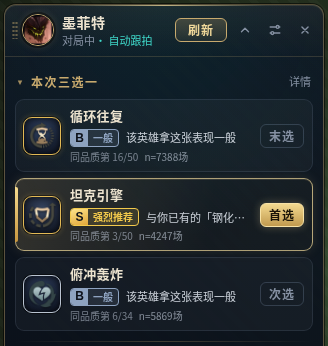
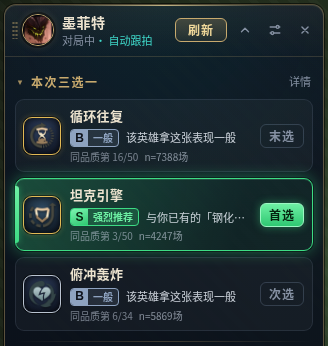
style(overlay): vivid green for recommended emphasis (S tier, first choice, next item), gold kept for frame/rarity accents

Changed region(s): [[0.0305, 0.4913, 0.9451, 0.7514], [0.7927, 0.5202, 0.9756, 0.7225], [0.2134, 0.578, 0.4268, 0.6647]]

diff --git a/src/renderer/components/ManualOverlay.vue b/src/renderer/components/ManualOverlay.vue
@@ -1594,7 +1594,10 @@ onBeforeUnmount(() => {
   --mo-text: #cfd6e0;
   --mo-muted: #8590a2;
   --mo-blue: #3fd6c8;
-  --mo-up: #62d896;
+  --mo-up: #4ade80;
+  --mo-go: #3ddc84;
+  --mo-go-bright: #6ef0a4;
+  --mo-go-glow: rgba(61, 220, 132, 0.45);
   --mo-down: #f07a72;
   --mo-radius: 12px;
   --mo-hex: #0ac8b9;
@@ -1672,16 +1675,16 @@ onBeforeUnmount(() => {
   height: 32px;
   flex: none;
   border-radius: 7px;
-  border: 1px solid var(--mo-gold-bright);
-  box-shadow: 0 0 0 1px rgba(0, 0, 0, 0.6), 0 0 8px rgba(240, 216, 154, 0.35);
+  border: 1.5px solid var(--mo-go);
+  box-shadow: 0 0 0 1px rgba(0, 0, 0, 0.6), 0 0 9px var(--mo-go-glow);
   overflow: hidden;
   background: #0b1220;
 }
 .mo-bar-next img { width: 100%; height: 100%; display: block; }
-.mo-focus-buy { margin: 5px 0 3px; padding: 3px 7px; border-radius: 5px; border-left: 2px solid #f0c85a; background: rgba(240, 200, 90, 0.1); color: #f3cf6c; font-size: 12px; font-weight: 600; }
+.mo-focus-buy { margin: 5px 0 3px; padding: 3px 7px; border-radius: 5px; border-left: 3px solid var(--mo-go); background: rgba(61, 220, 132, 0.12); color: var(--mo-go-bright); font-size: 12px; font-weight: 600; }
 .mo-bar-empty { display: flex; height: 100%; align-items: center; justify-content: center; color: var(--mo-muted); }
 .mo-bar-text { display: flex; flex-direction: column; min-width: 0; max-width: 104px; }
-.mo-bar-label { font-size: 10px; line-height: 1.2; color: var(--mo-gold); letter-spacing: 1px; }
+.mo-bar-label { font-size: 10px; line-height: 1.2; color: var(--mo-go); font-weight: 700; letter-spacing: 1px; }
 .mo-bar-name { color: var(--mo-ivory); font-size: 13px; font-weight: 700; text-shadow: 0 1px 2px rgba(0, 0, 0, 0.6); white-space: nowrap; overflow: hidden; text-overflow: ellipsis; }
 .mo-bar-dot {
   width: 8px; height: 8px; flex: none; border-radius: 50%;
@@ -1855,13 +1858,13 @@ onBeforeUnmount(() => {
 }
 .mo-card:hover { border-color: var(--mo-gold-dim); background: var(--mo-surface-hover); }
 .mo-card-best {
-  border-color: rgba(240, 216, 154, 0.7);
-  background: linear-gradient(100deg, rgba(200, 170, 110, 0.2), rgba(200, 170, 110, 0.04) 65%);
-  box-shadow: 0 0 12px rgba(200, 170, 110, 0.16), inset 0 1px 0 rgba(240, 216, 154, 0.14);
+  border-color: var(--mo-go);
+  background: linear-gradient(100deg, rgba(61, 220, 132, 0.28), rgba(61, 220, 132, 0.07) 75%);
+  box-shadow: 0 0 0 1px rgba(0, 0, 0, 0.45), 0 0 16px var(--mo-go-glow), inset 0 1px 0 rgba(110, 240, 164, 0.18);
 }
 .mo-card-best::before {
-  content: ""; position: absolute; left: -1px; top: 8px; bottom: 8px; width: 3px; border-radius: 0 2px 2px 0;
-  background: linear-gradient(180deg, #f7dc8f, #c8973f);
+  content: ""; position: absolute; left: -1px; top: 7px; bottom: 7px; width: 4px; border-radius: 0 3px 3px 0;
+  background: linear-gradient(180deg, var(--mo-go-bright), var(--mo-go)); box-shadow: 0 0 6px var(--mo-go-glow);
 }
 .mo-card-tie { border-color: rgba(63, 214, 200, 0.5); background: linear-gradient(100deg, rgba(63, 214, 200, 0.1), transparent 65%); }
 .mo-card-icon-wrap {
@@ -1899,9 +1902,10 @@ onBeforeUnmount(() => {
 }
 .mo-tier b { display: flex; align-items: center; justify-content: center; width: 17px; font-size: 12px; font-weight: 900; color: var(--t-ink); background: var(--t); font-family: "Segoe UI", "Microsoft YaHei UI", sans-serif; }
 .mo-tier small { display: flex; align-items: center; padding: 0 5px; font-size: 10px; font-weight: 600; color: var(--t); white-space: nowrap; }
-.mo-tier-S { --t: #f2c94c; }
-.mo-tier-S b { background: linear-gradient(160deg, #ffe48a, #e0a63a); }
-.mo-tier-A { --t: #4fd1a5; }
+.mo-tier-S { --t: #3ddc84; background: rgba(61, 220, 132, 0.18); }
+.mo-tier-S b { background: linear-gradient(160deg, #7cf5b0, #2fc872); color: #04230f; }
+.mo-tier-S small { color: var(--mo-go-bright); font-weight: 700; }
+.mo-tier-A { --t: #5ec4d4; }
 .mo-tier-B { --t: #8ea3c0; }
 .mo-tier-C { --t: #e7716b; }
 .mo-card-roll { padding: 0 4px; border-radius: 3px; background: rgba(120, 170, 255, 0.14); color: #a5c6ff; }
@@ -1917,7 +1921,7 @@ onBeforeUnmount(() => {
 .mo-card-n { font-size: 10px; color: rgba(200, 210, 225, 0.62); white-space: nowrap; }
 .mo-attribution { color: rgba(170, 190, 215, 0.7); font-size: 10px; }
 .mo-synergy { font-size: 10px; padding: 0 5px; border-radius: 8px; line-height: 16px; white-space: nowrap; }
-.mo-synergy-up { background: rgba(95, 208, 138, 0.14); color: var(--mo-up); }
+.mo-synergy-up { background: rgba(61, 220, 132, 0.16); color: var(--mo-up); }
 .mo-synergy-down { background: rgba(239, 111, 111, 0.14); color: var(--mo-down); }
 .mo-card-detail { margin-top: 3px; color: var(--mo-muted); font-size: 10px; line-height: 1.45; }
 .mo-card-detail-synergy { color: #a9c7b4; }
@@ -1934,7 +1938,7 @@ onBeforeUnmount(() => {
   letter-spacing: 1px;
   border: 1px solid transparent;
 }
-.mo-badge-best { background: linear-gradient(180deg, #f3d98f, #c19a4f); color: #1a1408; border-color: #f7e2a6; box-shadow: 0 0 8px rgba(240, 216, 154, 0.3); }
+.mo-badge-best { background: linear-gradient(180deg, #6ef0a4, #2fc872); color: #04230f; border-color: #9cf7c3; box-shadow: 0 0 9px var(--mo-go-glow); }
 .mo-badge-tie { background: rgba(10, 200, 185, 0.18); color: var(--mo-blue); border: 1px solid rgba(10, 200, 185, 0.45); }
 .mo-badge-nodata { background: transparent; color: rgba(205, 190, 145, 0.55); border: 1px dashed rgba(205, 190, 145, 0.35); }
 .mo-badge-plain { background: transparent; color: var(--mo-muted); border: 1px solid rgba(130, 150, 180, 0.28); }
@@ -2005,12 +2009,12 @@ onBeforeUnmount(() => {
 .mo-slot img { width: 100%; height: 100%; display: block; border-radius: 6px; }
 .mo-slot:hover { border-color: var(--mo-gold-dim); }
 .mo-slot-next {
-  border: 1.5px solid var(--mo-gold-bright);
-  box-shadow: 0 0 0 1px rgba(0, 0, 0, 0.6), 0 0 9px rgba(240, 216, 154, 0.5);
+  border: 1.5px solid var(--mo-go);
+  box-shadow: 0 0 0 1px rgba(0, 0, 0, 0.6), 0 0 10px var(--mo-go-glow);
 }
 .mo-slot-next::after {
   content: ""; position: absolute; left: 25%; right: 25%; bottom: -5px; height: 2px; border-radius: 1px;
-  background: var(--mo-gold-bright); box-shadow: 0 0 4px rgba(240, 216, 154, 0.8);
+  background: var(--mo-go); box-shadow: 0 0 4px var(--mo-go-glow);
 }
 .mo-slot-focus { border-color: var(--mo-gold); }
 .mo-slot-owned img { filter: grayscale(0.7) brightness(0.55); }
@@ -2054,10 +2058,10 @@ onBeforeUnmount(() => {
 }
 .mo-plan-tab:hover { color: var(--mo-ivory); }
 .mo-plan-tab-active {
-  color: #1a1408;
+  color: #101722;
   font-weight: 700;
-  background: linear-gradient(180deg, rgba(240, 216, 154, 0.95), rgba(193, 154, 79, 0.95));
-  border-color: rgba(247, 226, 166, 0.7);
+  background: linear-gradient(180deg, rgba(225, 232, 242, 0.95), rgba(170, 182, 200, 0.95));
+  border-color: rgba(235, 240, 248, 0.7);
 }
 .mo-plan-hint {
   display: flex; align-items: center; gap: 4px; margin-bottom: 6px; padding: 3px 6px; border-radius: 6px;
@@ -2137,13 +2141,13 @@ onBeforeUnmount(() => {
   margin-top: 9px;
   padding: 7px 9px;
   border-radius: 8px;
-  background: linear-gradient(100deg, rgba(200, 170, 110, 0.1), rgba(200, 170, 110, 0.02));
-  border: 1px solid rgba(200, 170, 110, 0.22);
+  background: linear-gradient(100deg, rgba(61, 220, 132, 0.08), rgba(61, 220, 132, 0.01));
+  border: 1px solid rgba(61, 220, 132, 0.25);
 }
 .mo-focus-head { display: flex; align-items: center; gap: 6px; }
 .mo-focus-tag {
   flex: none; font-size: 10px; padding: 0 6px; line-height: 16px; border-radius: 4px;
-  background: var(--mo-gold); color: #1a1408; font-weight: 700;
+  background: var(--mo-go); color: #04230f; font-weight: 700;
 }
 .mo-focus-name { flex: 1; min-width: 0; color: var(--mo-ivory); font-weight: 700; white-space: nowrap; overflow: hidden; text-overflow: ellipsis; }
 .mo-focus-reason { margin-top: 3px; font-size: 11px; color: var(--mo-text); line-height: 1.45; display: -webkit-box; -webkit-line-clamp: 2; -webkit-box-orient: vertical; overflow: hidden; }
